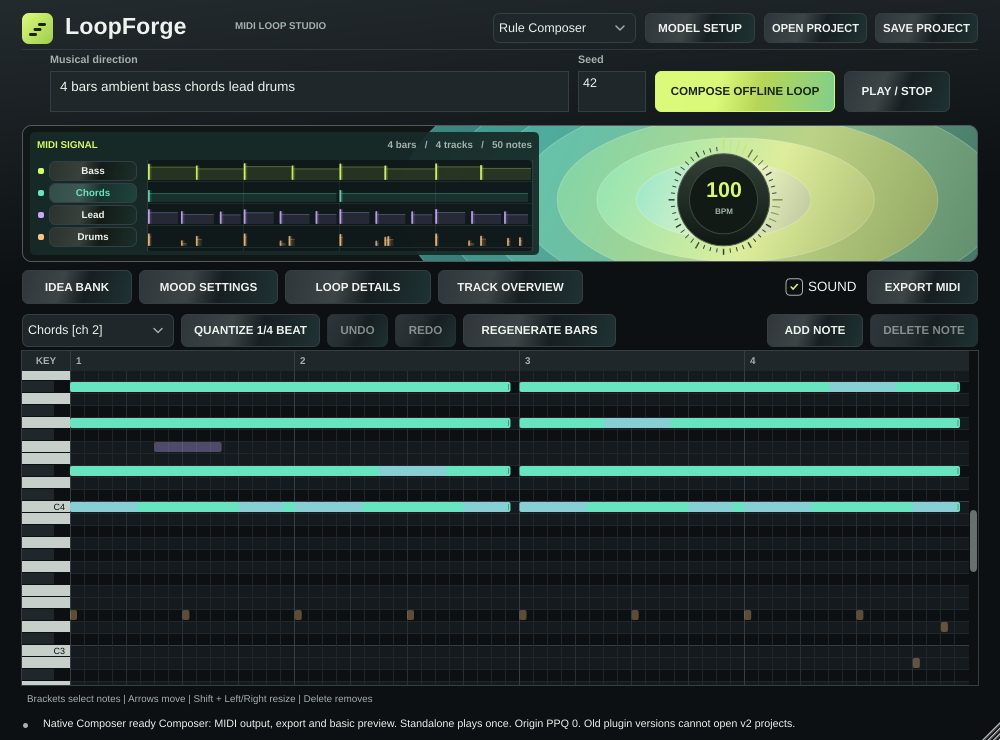
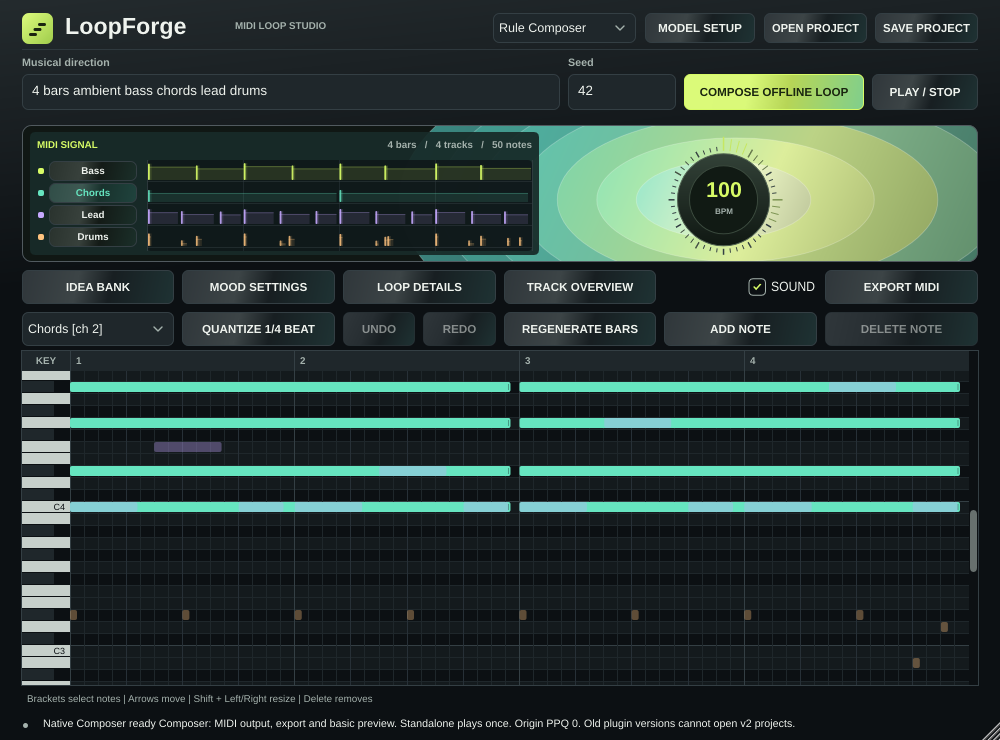
Align native command fields and Composer toolbar columns

Changed region(s): [[0.031, 0.3419, 0.961, 0.4662], [0.558, 0.0622, 0.961, 0.1554], [0.031, 0.0622, 0.31, 0.1554]]

diff --git a/plugin/Source/Plugin.cpp b/plugin/Source/Plugin.cpp
@@ -39,9 +39,9 @@ public:
   compose.setButtonText("COMPOSE OFFLINE LOOP");compose.setTooltip("Native deterministic4/8/16bar loop. Text/defaults choose Composer parameters; no service. MIDI output and basic preview.");addChildComponent(compose);compose.onClick=[this]{composeLoop();};
   addAndMakeVisible(mode);mode.onClick=[this]{if(processor.canSwitchMode()){processor.selectMode(processor.isComposerMode()?composer::ProjectMode::legacy:composer::ProjectMode::composer);timerCallback();}else composeLoop();};mode.setTooltip("Create a native Composer loop or switch between both preserved source documents. Switching cancels an active generation.");
   // Preserve complete insertions: filtering characters/length can change the requested seed.
-  seed.setText("42");seed.setTooltip("Fallback unsigned32bit seed (0-4294967295). An explicit seed in direction text wins. Next request only; SAVE RECIPE stores this value separately.");addAndMakeVisible(seed);caption(seedLabel,"Seed",seed);
+  seed.setFont(studio::font(15.0f));seed.setIndents(9,8);seed.setText("42");seed.setTooltip("Fallback unsigned32bit seed (0-4294967295). An explicit seed in direction text wins. Next request only; SAVE RECIPE stores this value separately.");addAndMakeVisible(seed);caption(seedLabel,"Seed",seed);
   prompt.setTooltip("Composer rejects directions above4096UTF8bytes without truncation. Composer uses this text, fallback seed and manual mood pins; Auto follows text/defaults. Legacy uses the controls below. SAVE RECIPE stores next-request text, seed and mood pins separately.");
-  prompt.setFont(studio::font(15.0f));prompt.setIndents(9,7);prompt.setMultiLine(true);prompt.setText(defaultDirection);addAndMakeVisible(prompt);
+  prompt.setFont(studio::font(15.0f));prompt.setIndents(9,8);prompt.setMultiLine(true);prompt.setText(defaultDirection);addAndMakeVisible(prompt);
   setup(engine,{"Rule Composer","MIDI-LLM"});
   engine.setTitle("Composition engine");
   addAndMakeVisible(modelSetup);modelSetup.setButtonText("MODEL SETUP");
@@ -66,7 +66,7 @@ public:
   provider.onChange=[this]{model.clear();model.setEnabled(provider.getText()!="offline");timerCallback();};model.setEnabled(false);
   generate.setButtonText("GENERATE 8 IDEAS");addAndMakeVisible(generate);generate.onClick=[this]{processor.request(requestBody(false));};
   testConnection.setButtonText("TEST (1 IDEA)");testConnection.setTooltip("Generates one idea to check connection, login and model access. Cloud/CLI usage may incur charges. Keeps your current composition.");addAndMakeVisible(testConnection);testConnection.onClick=[this]{processor.request(requestBody(true));};
-  cancel.setButtonText("CANCEL REQUEST");addAndMakeVisible(cancel);cancel.onClick=[this]{processor.cancel();};
+  cancel.setButtonText("CANCEL");cancel.setTitle("Cancel generation request");addAndMakeVisible(cancel);cancel.onClick=[this]{processor.cancel();};
   play.setButtonText("PLAY / STOP");play.setTooltip("Start or stop the local preview. Plugin playback follows the host transport.");addAndMakeVisible(play);play.onClick=[this]{processor.play=!processor.play.load();};
   sound.setButtonText("SOUND");sound.setTitle("Audition synth");sound.setTooltip("Use the built-in preview instrument.");sound.setToggleState(processor.audition.load(),juce::dontSendNotification);addAndMakeVisible(sound);sound.onClick=[this]{processor.audition=sound.getToggleState();};
   variation.setTextWhenNothingSelected("No ideas yet");addAndMakeVisible(variation);variation.onChange=[this]{processor.choose(variation.getSelectedItemIndex());repaint();};
@@ -113,18 +113,17 @@ public:
   saveProject.setBounds(files);
 
   const bool composer = showComposer;
-  const int commandWidth = juce::jmin(area.getWidth()-24, getWidth()/2+400);
-  auto command = area.withSizeKeepingCentre(commandWidth, 41).withY(71);
+  auto command = area.withY(74).withHeight(36);
   play.setBounds(command.removeFromRight(106));
-  command.removeFromRight(9);
+  command.removeFromRight(8);
   const auto composeSlot = command.removeFromRight(180);
   compose.setBounds(composeSlot);
-  command.removeFromRight(9);
-  seed.setBounds(command.removeFromRight(68));
-  seedLabel.setBounds(seed.getX(), 53, seed.getWidth(), 14);
-  command.removeFromRight(9);
+  command.removeFromRight(8);
+  seed.setBounds(command.removeFromRight(108));
+  seedLabel.setBounds(seed.getX(), 54, seed.getWidth(), 17);
+  command.removeFromRight(8);
   prompt.setBounds(command);
-  promptLabel.setBounds(command.getX(), 53, command.getWidth(), 14);
+  promptLabel.setBounds(command.getX(), 54, command.getWidth(), 17);
 
   const auto upper = area.withY(125).withHeight(137);
   signal.setBounds(upper);
@@ -149,11 +148,21 @@ public:
    control.setBounds(row.removeFromLeft(width));
    row.removeFromLeft(7);
   };
+  // Both toolbars share the same column edges at every supported width.
+  const auto cell = [area](int y, int column, int span) {
+   const int pitch = area.getWidth()+8;
+   const int left = column*pitch/12;
+   const int right = (column+span)*pitch/12-8;
+   return juce::Rectangle<int>(area.getX()+left, y, right-left, 34);
+  };
   if (composer) {
-   place(tools, mode, 110);
-   place(tools, moodSettings, 139);
-   place(tools, loopDetails, 146);
-   place(tools, noteView, 145);
+   mode.setBounds(cell(270,0,2));
+   moodSettings.setBounds(cell(270,2,2));
+   loopDetails.setBounds(cell(270,4,2));
+   noteView.setBounds(cell(270,6,2));
+   cancel.setBounds(cell(270,8,1));
+   sound.setBounds(cell(270,9,1));
+   exportButton.setBounds(cell(270,10,2));
    ideaSettings.setBounds({});
    generate.setBounds({});
    variation.setBounds({});
@@ -169,22 +178,21 @@ public:
    noteView.setBounds({});
    moodSettings.setBounds({});
    loopDetails.setBounds({});
+   exportButton.setBounds(tools.removeFromRight(111));
+   tools.removeFromRight(7);
+   sound.setBounds(tools.removeFromRight(78));
+   tools.removeFromRight(7);
+   cancel.setBounds(tools.removeFromRight(122));
   }
-  exportButton.setBounds(tools.removeFromRight(111));
-  tools.removeFromRight(7);
-  sound.setBounds(tools.removeFromRight(78));
-  tools.removeFromRight(7);
-  cancel.setBounds(tools.removeFromRight(122));
 
-  auto edit = area.withY(314).withHeight(33);
-  place(edit, layer, 152);
-  place(edit, quantize, 139);
-  place(edit, undo, 61);
-  place(edit, redo, 61);
-  place(edit, regenerate, 153);
-  deleteNote.setBounds(edit.removeFromRight(108));
-  edit.removeFromRight(7);
-  addNote.setBounds(edit.removeFromRight(96));
+  constexpr int editY = 312;
+  layer.setBounds(cell(editY,0,2));
+  quantize.setBounds(cell(editY,2,2));
+  undo.setBounds(cell(editY,4,1));
+  redo.setBounds(cell(editY,5,1));
+  regenerate.setBounds(cell(editY,6,2));
+  addNote.setBounds(cell(editY,8,2));
+  deleteNote.setBounds(cell(editY,10,2));
 
   const bool editVisible = !composer || showEdit;
   const int top = editVisible ? 371 : 314;

diff --git a/plugin/tests/UiTest.cpp b/plugin/tests/UiTest.cpp
@@ -5,7 +5,7 @@
 int main(int argc,char** argv){juce::ScopedJuceInitialiser_GUI init;Processor p;std::unique_ptr<juce::AudioProcessorEditor> editor(p.createEditor());
  juce::TextButton *generate=nullptr,*probe=nullptr,*cancel=nullptr,*undoButton=nullptr,*redoButton=nullptr,*quantizeButton=nullptr,*dragMidi=nullptr,*ideaSettings=nullptr;juce::ComboBox *provider=nullptr,*variation=nullptr;juce::TextEditor* model=nullptr;
  for(int i=0;i<editor->getNumChildComponents();++i){auto* c=editor->getChildComponent(i);check(editor->getLocalBounds().contains(c->getBounds()));
-  if(auto* b=dynamic_cast<juce::TextButton*>(c)){if(b->getButtonText()=="GENERATE 8 IDEAS")generate=b;if(b->getName()=="Idea bank settings")ideaSettings=b;if(b->getButtonText()=="TEST (1 IDEA)")probe=b;if(b->getButtonText()=="CANCEL REQUEST")cancel=b;if(b->getButtonText()=="DRAG MIDI")dragMidi=b;if(b->getButtonText()=="UNDO")undoButton=b;if(b->getButtonText()=="REDO")redoButton=b;if(b->getButtonText()=="QUANTIZE 1/4 BEAT")quantizeButton=b;}
+  if(auto* b=dynamic_cast<juce::TextButton*>(c)){if(b->getButtonText()=="GENERATE 8 IDEAS")generate=b;if(b->getName()=="Idea bank settings")ideaSettings=b;if(b->getButtonText()=="TEST (1 IDEA)")probe=b;if(b->getTitle()=="Cancel generation request")cancel=b;if(b->getButtonText()=="DRAG MIDI")dragMidi=b;if(b->getButtonText()=="UNDO")undoButton=b;if(b->getButtonText()=="REDO")redoButton=b;if(b->getButtonText()=="QUANTIZE 1/4 BEAT")quantizeButton=b;}
   if(auto* box=dynamic_cast<juce::ComboBox*>(c)){if(box->getText()=="offline")provider=box;if(box->getNumItems()==0)variation=box;}
   if(auto* text=dynamic_cast<juce::TextEditor*>(c))if(!text->isMultiLine())model=text;
  }

diff --git a/plugin/Source/StudioLook.h b/plugin/Source/StudioLook.h
@@ -79,6 +79,18 @@ public:
   g.drawRoundedRectangle(area, 6.0f, 1.0f);
  }
 
+ void fillTextEditorBackground(juce::Graphics& g, int, int, juce::TextEditor& editor) override {
+  g.setColour(editor.findColour(juce::TextEditor::backgroundColourId));
+  g.fillRoundedRectangle(editor.getLocalBounds().toFloat().reduced(0.5f), 6.0f);
+ }
+
+ void drawTextEditorOutline(juce::Graphics& g, int, int, juce::TextEditor& editor) override {
+  const auto id = editor.hasKeyboardFocus(true) ? juce::TextEditor::focusedOutlineColourId
+                                               : juce::TextEditor::outlineColourId;
+  g.setColour(editor.findColour(id));
+  g.drawRoundedRectangle(editor.getLocalBounds().toFloat().reduced(0.5f), 6.0f, 1.0f);
+ }
+
  void drawRotarySlider(juce::Graphics& g, int x, int y, int width, int height,
                        float position, float start, float end, juce::Slider& slider) override {
   const auto centre = juce::Rectangle<float>(float(x),float(y),float(width),float(height)).getCentre();

diff --git a/plugin/tests/NativeComposeUITest.cpp b/plugin/tests/NativeComposeUITest.cpp
@@ -43,6 +43,14 @@ static_cast<juce::AudioProcessor&>(*p).addListener(&listener);for(int i=0;i<edit
   auto* signal = editor->findChildWithID("loop-signal");
   check(signal && direction->getWidth() >= editor->getWidth() / 2);
   check(direction->getBottom() < signal->getY());
+  check(direction->getX()==signal->getX());
+  check(seed->getX()-direction->getRight()==8);
+  check(seed->getY()==direction->getY() && seed->getHeight()==direction->getHeight());
+  check(seed->getWidth()>=100);
+  if(compose->isVisible()){
+   check(compose->getX()-seed->getRight()==8);
+   check(compose->getY()==seed->getY() && compose->getHeight()==seed->getHeight());
+  }
   if(vp->isVisible()){
    check(vp->getWidth() >= editor->getWidth() - 56);
    check(vp->getHeight() >= 300 && signal->getBottom() < vp->getY());

diff --git a/errors.md b/errors.md
@@ -30,6 +30,7 @@ Native evidence below is local Linux unless a row explicitly cites earlier platf
 | ERR098 | Medium | Loop timing | Fixed | A delayed Ambient chord could extend past the requested length in browser and legacy Node generation. | Seed 6 produced a note ending at 16.05 beats. Boundary regression covers seeds 1 through 64 at both lengths. | T13 |
 | ERR099 | Medium | Request contract | Fixed | Legacy generation silently accepted a requested 3/4 meter and generated 4/4. | Shared meter validation covers legacy and v1 generation. Regression checks rejection and explicit 4/4 success. | T13 |
 | ERR100 | Medium | Prototype CI | Fixed | A negative readiness probe blocked an explicit CLI launch. The MCP EOF test treated a clean flush as an error. | Direct launch regression and bounded EOF checks passed on Windows, Ubuntu and macOS with Node 20 and 22 in [Prototype CI 44728723581](https://github.com/Aiorro/LoopHorge/actions/runs/44728723581). Clean EOF requires all expected replies and cancelled job cleanup. | T13 |
+| ERR103 | Low | Native UI | Fixed | The command fields had inset edges, and the two Composer toolbars used unrelated widths and gaps. | Command row aligns with the signal panel. Toolbar columns share edges. The native editor fixture checks field alignment and spacing at supported window sizes. | T13 |
 | ERR102 | Medium | Native UI | Fixed | During the signal display redesign the editor accessed the first bar marker when a restored project had an empty display timeline. | The Composer piano-roll restore fixture reproduced the crash. Copying only the common extent of the source and display buffers restores the 43/43 native pass. | T13 |
 | ERR097 | High | Transport | Fixed | The default JUCE bypass callback left the internal generator's active notes and pedals held. | A mixed-size Processor fixture reproduced the missing Note Off. The valid bypass callback drains once and emits silence. Real host delivery and suspension behaviour remain unverified. | R04/T12 |
 | ERR095 | Low | UI consistency | Fixed | During regeneration the signal map could briefly show the previous loop while the piano roll showed the newly committed one. | Observed during Linux Standalone smoke. Presentation and edit layers now use one revision, including the snapshot applied to the roll. Stale signal-track clicks are ignored. Serial CTest 43/43. | R02 |

diff --git a/docs/superpowers/specs/2026-11-20-instrument-ui.md b/docs/superpowers/specs/2026-11-20-instrument-ui.md
@@ -10,7 +10,7 @@ The second image repeats that hierarchy at promotional scale. Its headline and r
 
 Use a graphite shell, pale type and LoopForge lime for focus and primary actions. Build the field from original nested bands of forest, teal, chartreuse and ivory. An off-centre core gives it direction. Keep it static and render it locally. Shade each contour from cool turquoise into lime with a fine reflected edge. Place web loop metadata on a translucent dark plaque with a solid fallback. Native controls use painted diagonal highlights. Keep the note grid matte and all highlights static. The field provides visual context for the selected loop. Controls with a real action use buttons.
 
-In Standalone and VST3, centre the direction/seed/compose/transport row. Keep the MIDI timing overview and track buttons on a dark surface within the field, with the tempo at its core. Preserve piano-roll, overview, settings and export entry points.
+In Standalone and VST3, align the direction, seed, compose and transport row with the signal panel edges. Use 36-pixel command controls with eight-pixel gutters. Align the two Composer toolbars on twelve shared columns with 34-pixel controls. Keep the MIDI timing overview and track buttons on a dark surface within the field, with the tempo at its core. Preserve piano-roll, overview, settings and export entry points.
 
 On the web, replace the dashboard sidebar and promotional hero with an instrument header. Put generation controls above the field, keep the selected key, scale and tempo on the field, then place eight compact idea selectors directly above the editor. Keep the editor's keyboard controls, focus outline and scrollable pitch grid. At narrow widths wrap controls and idea selectors in reading order.
 

diff --git a/task.md b/task.md
@@ -134,3 +134,5 @@ Earlier plans, reports, rulings, audit assignments and verification history are 
 **Instrument UI, 2026-11-20.** Implemented the [supplied reference analysis and UI specification](docs/superpowers/specs/2026-11-20-instrument-ui.md) in the shared JUCE editor and web composer. Linux VST3 and Standalone built, native CTest passed 43/43, Node passed 98/98. Chromium passed the editor interaction, MIDI download and axe checks at 320/390/768/1440 pixels. Screenshots from the actual editors are linked in the specification. Windows host acceptance remains open.
 
 **Instrument finish, 2026-11-20.** Added static glass highlights and teal-to-lime gradients to the shared native editor and web composer. Refreshed the three editor screenshots. Linux native tests passed 43/43 and Node tests passed 98/98. Chromium editor interaction and axe checks passed across four widths.
+
+**Native UI geometry, ERR103.** The direction and seed fields align with the signal panel and command buttons. Composer view and editing toolbars share a 12-column layout with 8-pixel gutters. The editor fixture checks the command row at 1000x740 and 1600x1100. The updated minimum-size screenshot is in docs/images/instrument/native-editor.png.
